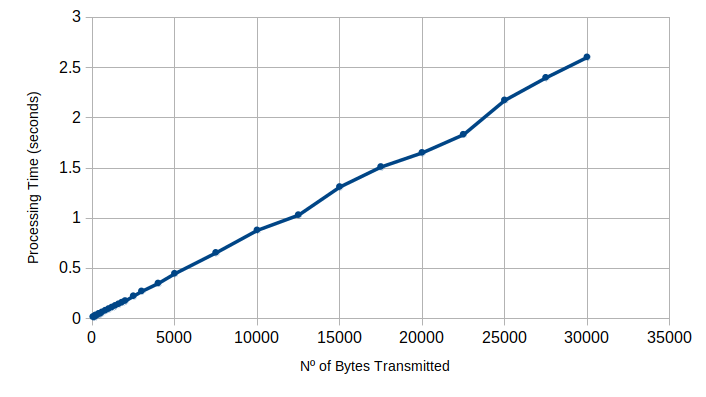
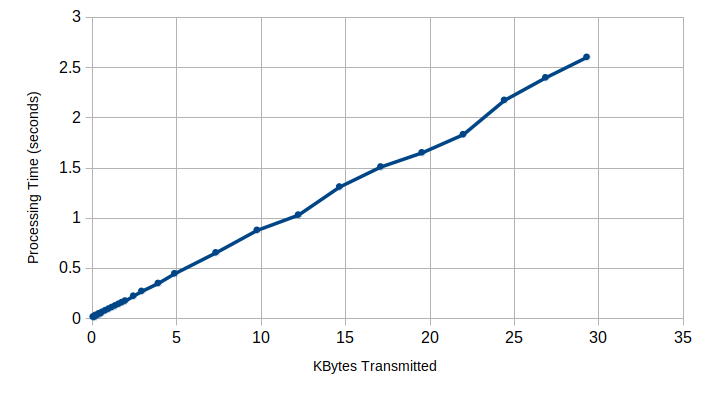
Serial comms performance: throughput and transmission time

diff --git a/Chapters/Thesis-MSc-Chapter_6.tex b/Chapters/Thesis-MSc-Chapter_6.tex
@@ -16,14 +16,14 @@ The performance tests discusses the objective, tests configuration, results and 
 
 Firstly, the performance of the communication channel was tested. Beyond testing the channel performance, it allows to test the performance of the individual services without the communication component. 
 The client interface and HSM device communicate through a \ac{UART} serial port.
-The performance metrics measured are the average time to transmit data and channel throughput.
+The performance metrics measured are the average time of data transmission and channel throughput.
 
 % -----------------------------------------------------
 \subsection{Testing configuration}\label{chap:evaluation:comms:config}
 
 Only two program are running on the computer while performing the tests, the client program and the SoftConsole IDE needed to run the code on the smartfusion board.
 The serial port UART connection is configured with 115200 bit baud rate, 8 data bits, no parity bits and one stop bit.
-The elapsed time is measured through two calls to the function gettimeofday() in the C library "sys/time.h".
+The elapsed time is measured through two calls to the function \texttt{gettimeofday()} in the C library \texttt{sys/time.h}.
 
 The test was setup on the client application. The application sends a message to the device. It is sent back by the device after reception. The two calls to the time functions are performed in the client application right before sending and after receiving the original message.
 
@@ -34,16 +34,24 @@ The message size was varied to study the performance and scalability of the seri
 
 \begin{figure}[h!]
 	\centering
-	\includegraphics[width=0.85\textwidth]{./Images/comms-performance.png}
+	\includegraphics[width=0.9\textwidth]{./Images/comms-performance.png}
 	\caption{Serial Port Communications Results}
 	\label{fig:performance:comms}
 \end{figure}
 
-As seen in figure~\ref{fig:performance:comms}, the average times range from approximately 0.016 seconds with a message of 50 bytes, to 2.6 seconds with a message of 30000 bytes.
+As seen in figure~\ref{fig:performance:comms}, the average transmittion time ranges from 0.016 seconds for 50 bytes, to 2.6 seconds for 29.3 KBytes.
 From the graph we can conclude the performance has linear scalability which is ideal for a system.
-The theoretical throughput is 14400 bytes = 115200/8 bytes, calculated from the baud rate.
-The experimental throughput is 3125 bytes per second with messages below 100 bytes and starts stabilizing around 12000 to 11000 bytes per second as message size increases.
-From this we conclude the practical throughput is close to the theoretical, and as expected stabilizes as the message size increases, as the sample size is bigger.
+
+\begin{figure}[h!]
+	\centering
+	\includegraphics[width=0.9\textwidth]{./Images/comms-tput.png}
+	\caption{Serial Port Communications Throughput}
+	\label{fig:performance:tput}
+\end{figure}
+
+Figure~\ref{fig:performance:tput} plots the experimental throughput and theoretical throughput. The theoretical throughput was calculated from the baud rate \(115200/8 = 14.06 KBytes/s\).
+The experimental throughput is 3.05 KB/s for data below 100 bytes and starts stabilizing around 12 KB/s to 11 KB/s as data size increases.
+From this we conclude the practical throughput is close to the theoretical, and as expected stabilizes as the sample size increases, meaning, more bytes are transmitted.
 
 % -----------------------------------------------------
 % -----------------------------------------------------
@@ -51,13 +59,7 @@ From this we conclude the practical throughput is close to the theoretical, and 
 
 The objective of these tests was to measure the performance of the services implemented in the board.
 The performance metric measured was the average time to finish the service, excluding the time spent on communications.
-
-The tested services were:
-\begin{itemize}
-	\item Data encryption + authentication
-	\item Data decryption + authentication
-	\item ECDH new key generation
-\end{itemize}
+The tested services are: data authenticated encryption, data authenticated decryption and new key generation with \ac{ECDH}.
 
 % -----------------------------------------------------
 \subsection{Testing Configuration}\label{chap:evaluation:services:config}
@@ -85,7 +87,7 @@ Regarding the key generation operation results in table~\ref{tab:data-performanc
 So a trade off was achieved. The operation was performed 1000 times without the key enrollment operation, meaning only the ecdh key generation algorithm and key derivation function (SHA-256).
 Since the enrollment phase is presumed to be expensive, due to writing in eNVM memory, the test was also performed 10 times with key enrollment, to get an idea of its potential performance cost.
 
-A higher time of 0.577 seconds without enrollment and 1.764 with, compared to the previous operations is expected due to the higher cost of operations with asymmetric keys.
+A higher time of 0.577 seconds without enrollment and 1.764s with, compared to the previous operations is expected due to the higher cost of operations with asymmetric keys.
 However, comparing both values we can conclude saving the key in memory, has most likely the higher performance impact on the operation.
 
 % -----------------------------------------------------
